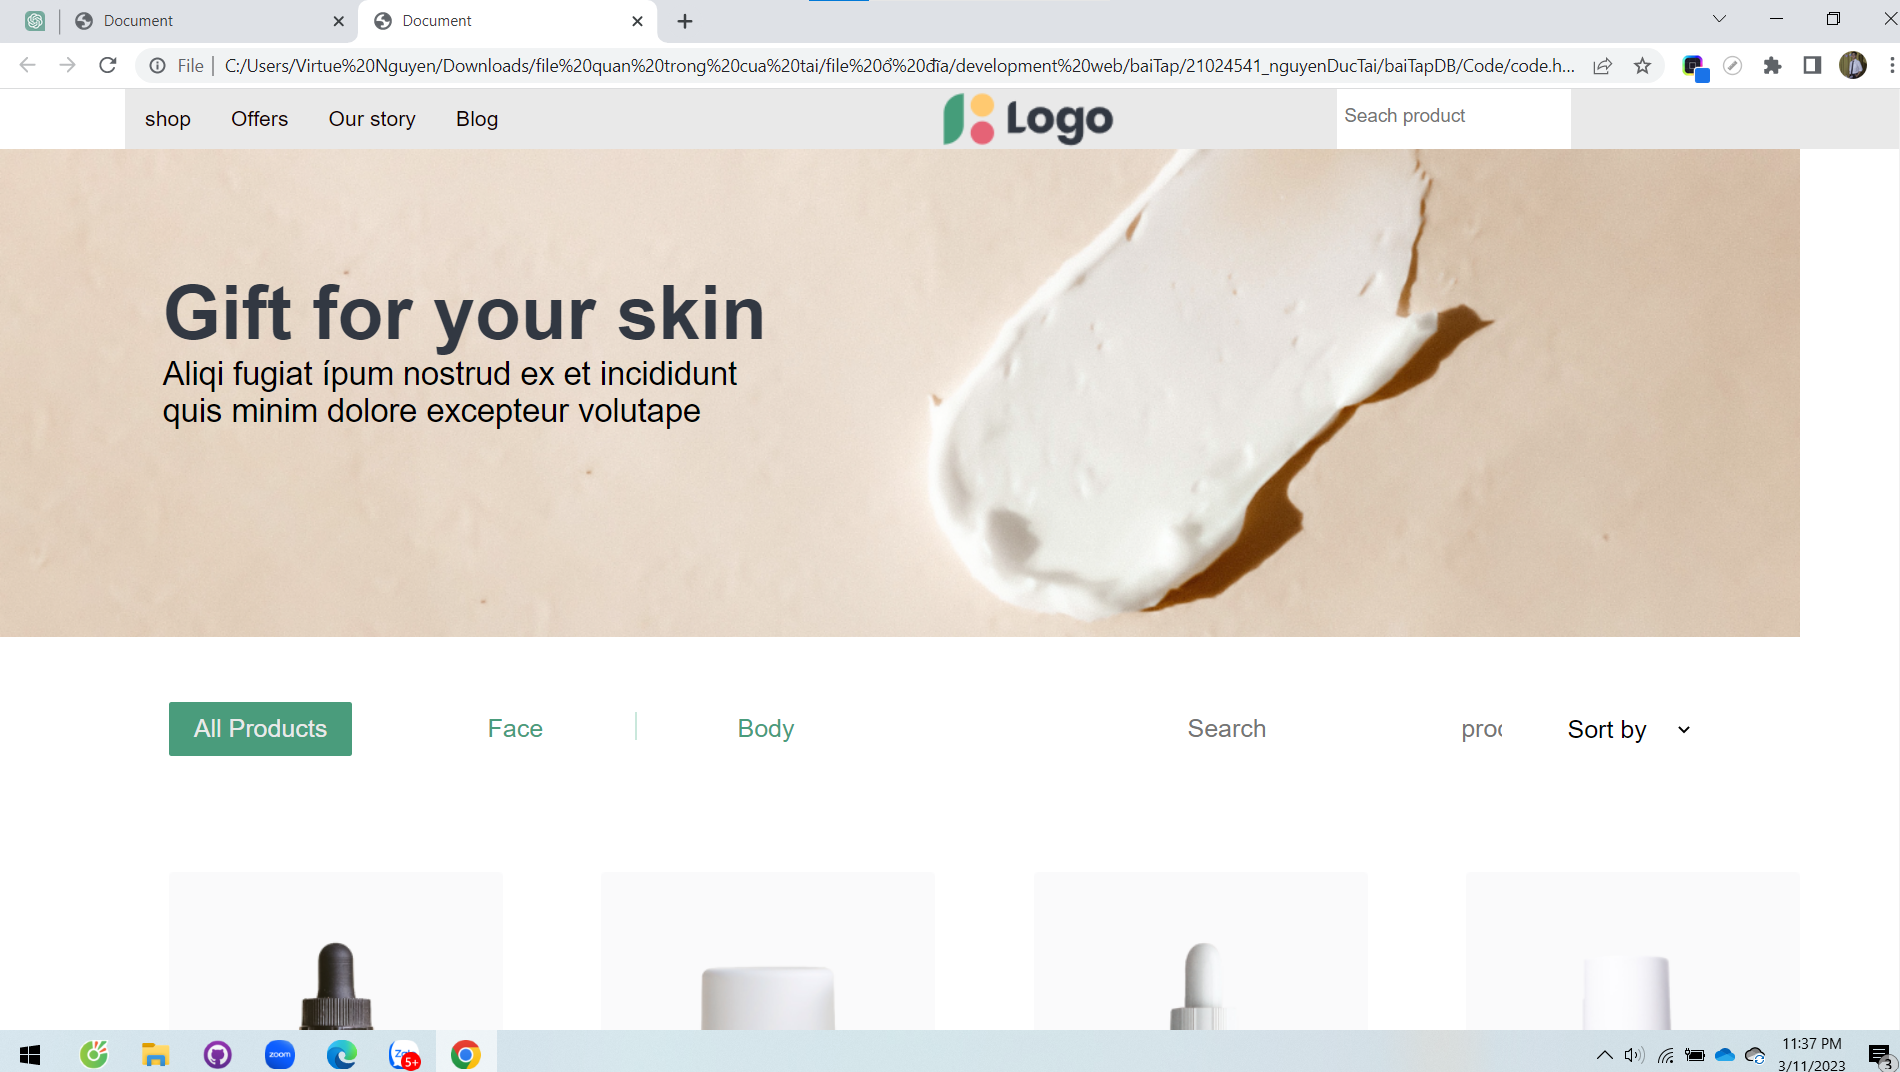
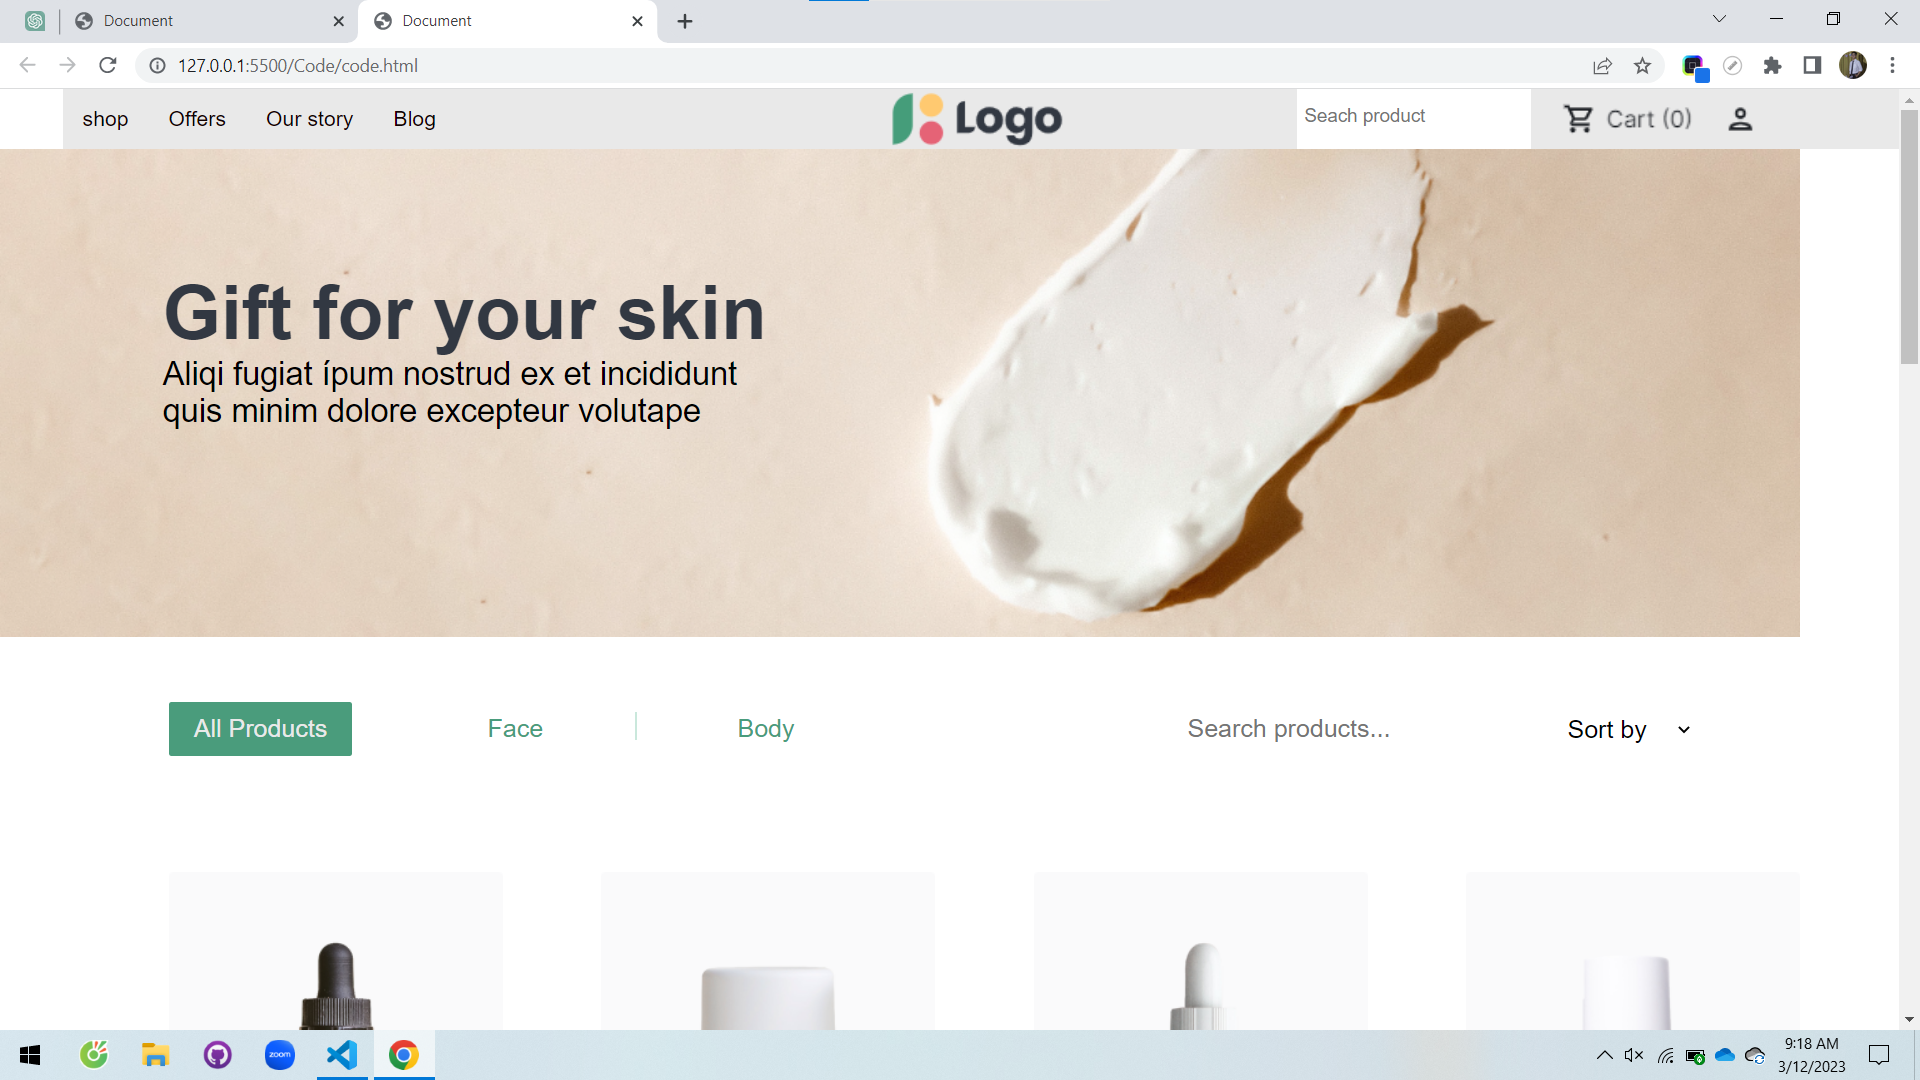
baiTap_chuong01_dacBiet

diff --git a/21024541_nguyenDucTai_Web_chuong01/baiTapDB/Code/code.css b/21024541_nguyenDucTai_Web_chuong01/baiTapDB/Code/code.css
@@ -11,7 +11,7 @@ body {
 .top {
 background-color: #e9e9e9;
 display: flex;
-margin-left: 100px;
+margin-left: 50px;
 }
  .top > div{
     width: 100%;
@@ -45,7 +45,7 @@ margin-left: 100px;
 
 .product{
     display: flex;
-    margin-right: -240px;
+    margin-right: -300px;
     justify-content: right;
     
 }
@@ -58,16 +58,18 @@ margin-left: 100px;
 
 .button1t{
     display: flex;
-    margin-right: -285px;
+    margin-right: -305px;
     justify-content: right;
 }
 .button1{
     display: flex;
+    margin-right: 100px;
     justify-content: right;
 }
 
 .headImg{
     position: relative;
+    width: auto;
 }
 
 .addTextInImg{
@@ -212,7 +214,7 @@ hr{
   }
   .pagination {
     width: 700px;
-    margin-left: 500px;
+    margin-left: 550px;
   }
   .pagination a {
     display: block;
@@ -296,8 +298,8 @@ hr{
     color: #fff;
     transform: scale(2);
     margin-top: 20px;
-    margin-left: 88px;
-    padding: 5px 1px;
+    margin-left: 125px;
+    padding: 5px 40px;
     border-radius: 2px;
     border: 1px solid #fff;
 }
@@ -305,12 +307,12 @@ hr{
     text-decoration: none;
     background-color: #4a9c7c;
     color: #e9e9e9; 
-    transform: scale(1.63);
+    transform: scale(1.6);
     border-radius: 0 5px 5px 0;
     border: none;
     position: absolute;
     margin-top: 19.86px;
-    margin-left: 105px;
+    margin-left: 17px;
     font-size: 20px;
     padding: 5px 1px;
 }

diff --git a/21024541_nguyenDucTai_Web_chuong01/baiTapDB/Code/code.html b/21024541_nguyenDucTai_Web_chuong01/baiTapDB/Code/code.html
@@ -24,10 +24,10 @@
                 <input type="text" placeholder=" Seach product">
             </div>
             <div class="button1t">
-                <img src="/baiTapDB/PNG producting/Button 1 (1).png" alt="">
+                <img src="../PNG producting/Button 1 (1).png" alt="">
             </div>
             <div class="button1">
-                <img src="/baiTapDB/PNG producting/Button 1.png" alt="">
+                <img src="../PNG producting/Button 1.png" alt="">
             </div>
         </div>
 
@@ -55,8 +55,7 @@
                         <a class="Body" href="">Body</a>
                     </div>
                     <div>
-                        <input class="textSeach" type="text" placeholder="Search
-                            products...">
+                        <input class="textSeach" type="text" placeholder="Search products...">
                         <select class="sort">
                             <option>Sort by</option>
                             <option>Name</option>

diff --git a/21024541_nguyenDucTai_Web_chuong01/baiTapDB/Code/design.html b/21024541_nguyenDucTai_Web_chuong01/baiTapDB/Code/design.html
@@ -7,7 +7,7 @@
     <title>Document</title>
 </head>
 <body>
-    <img src="/baiTapDB/PNG producting/A_Product listing.png" alt="">
+    <img src="../PNG producting/A_Product listing.png" alt="">
     <style>
         body{
             margin: 0;
